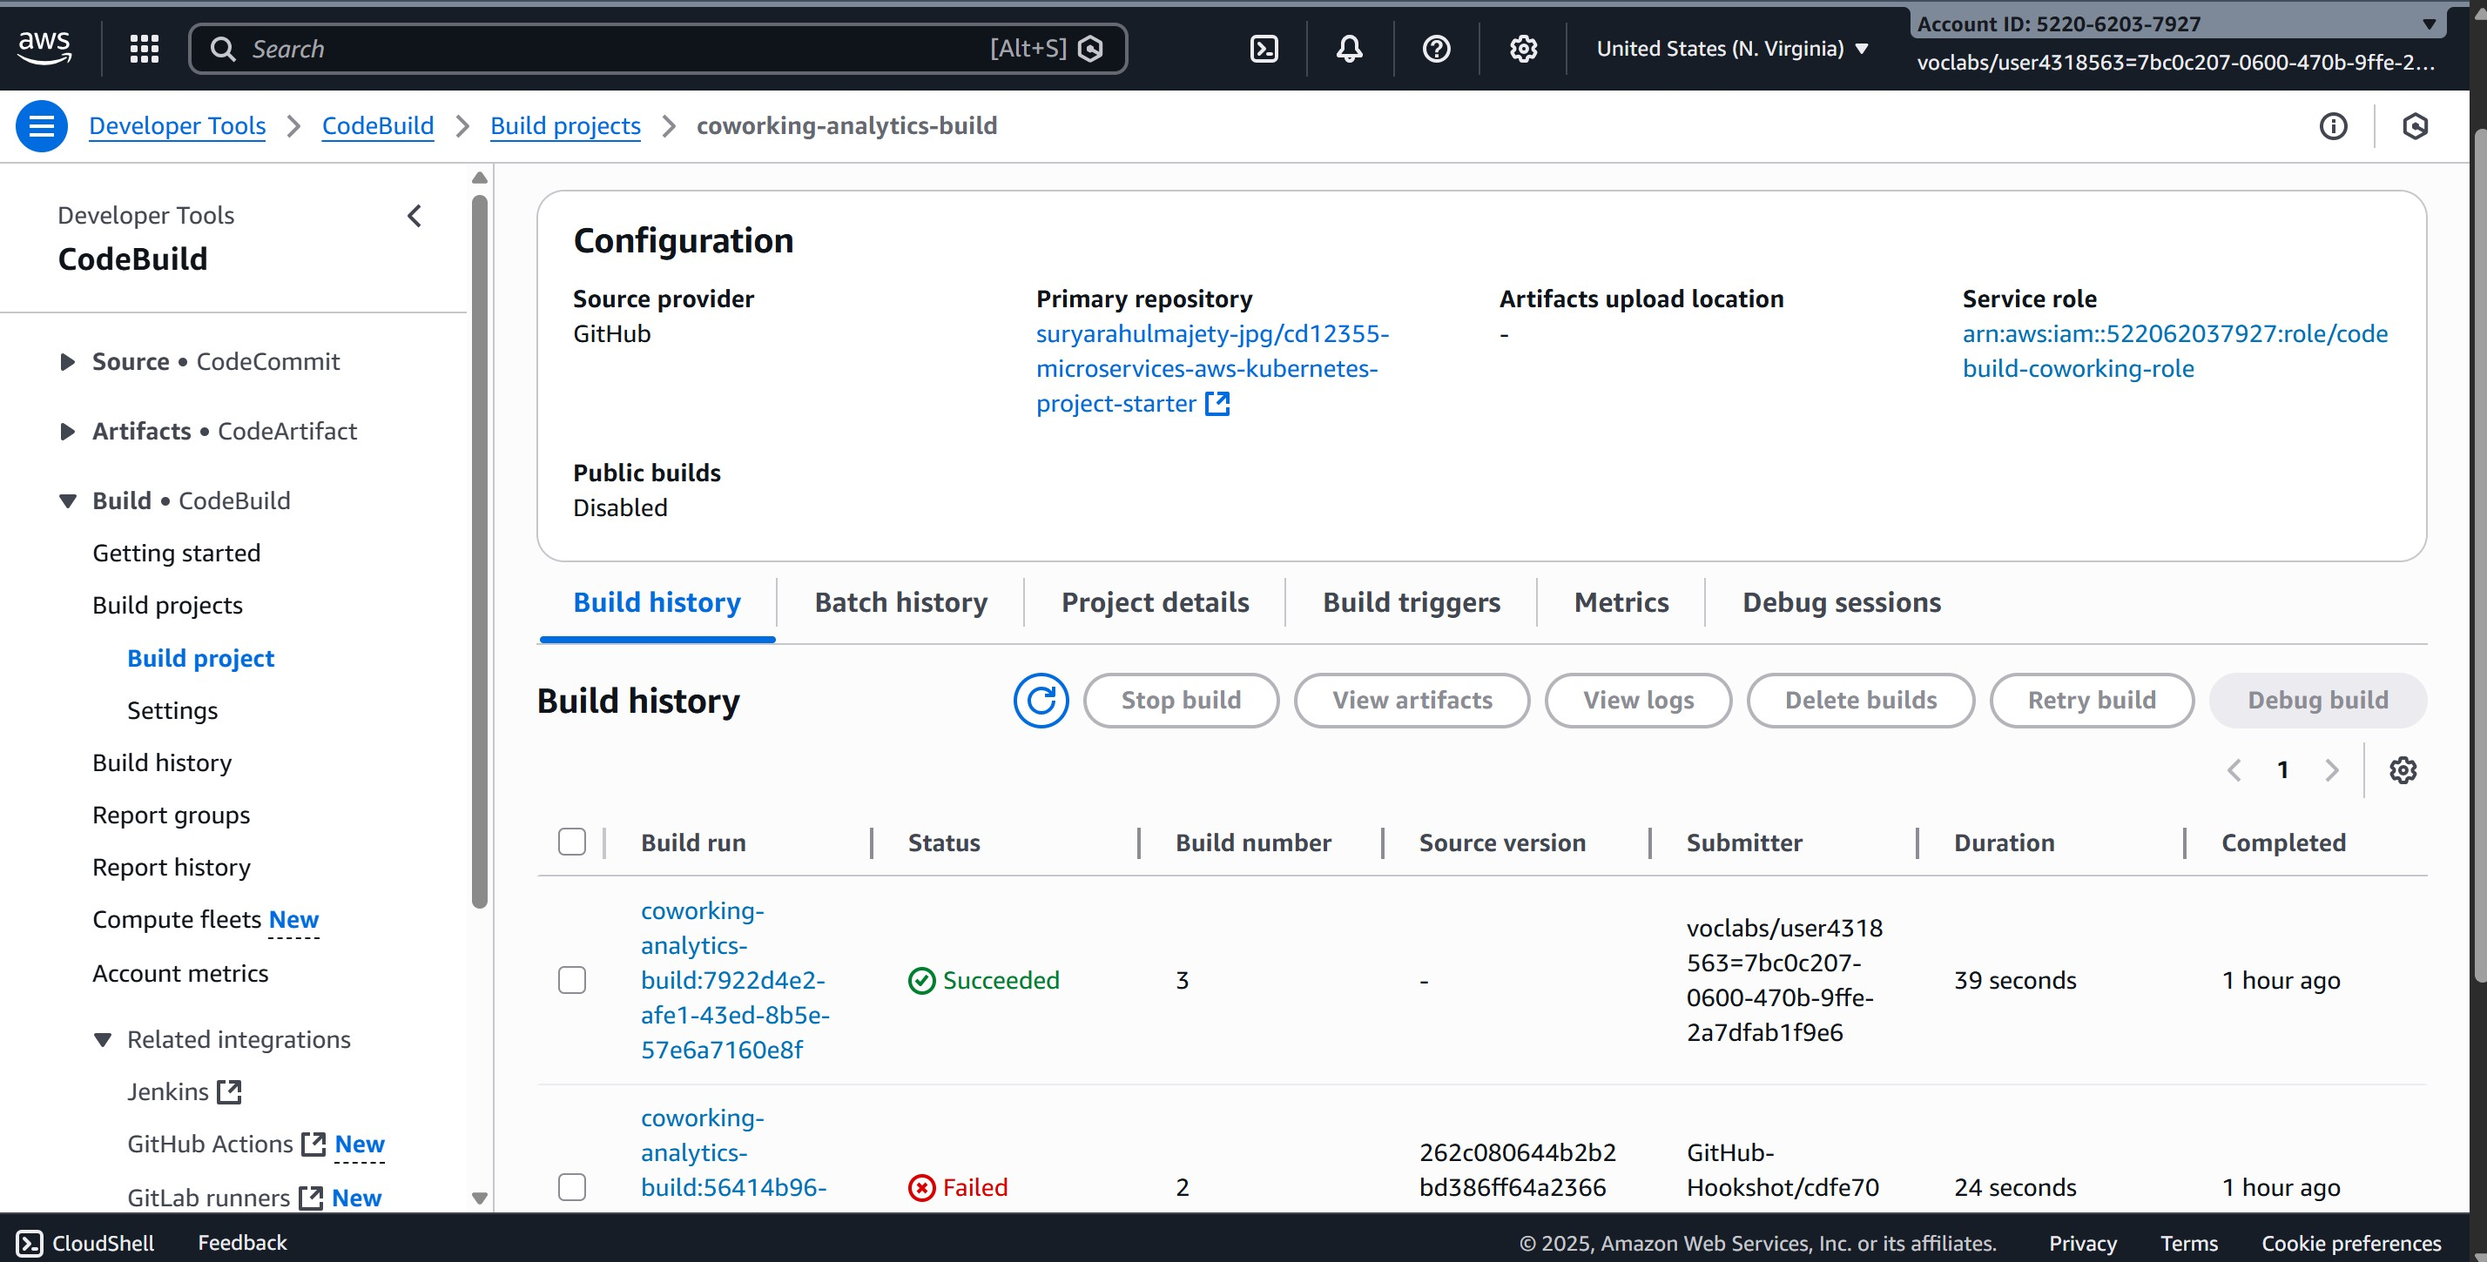
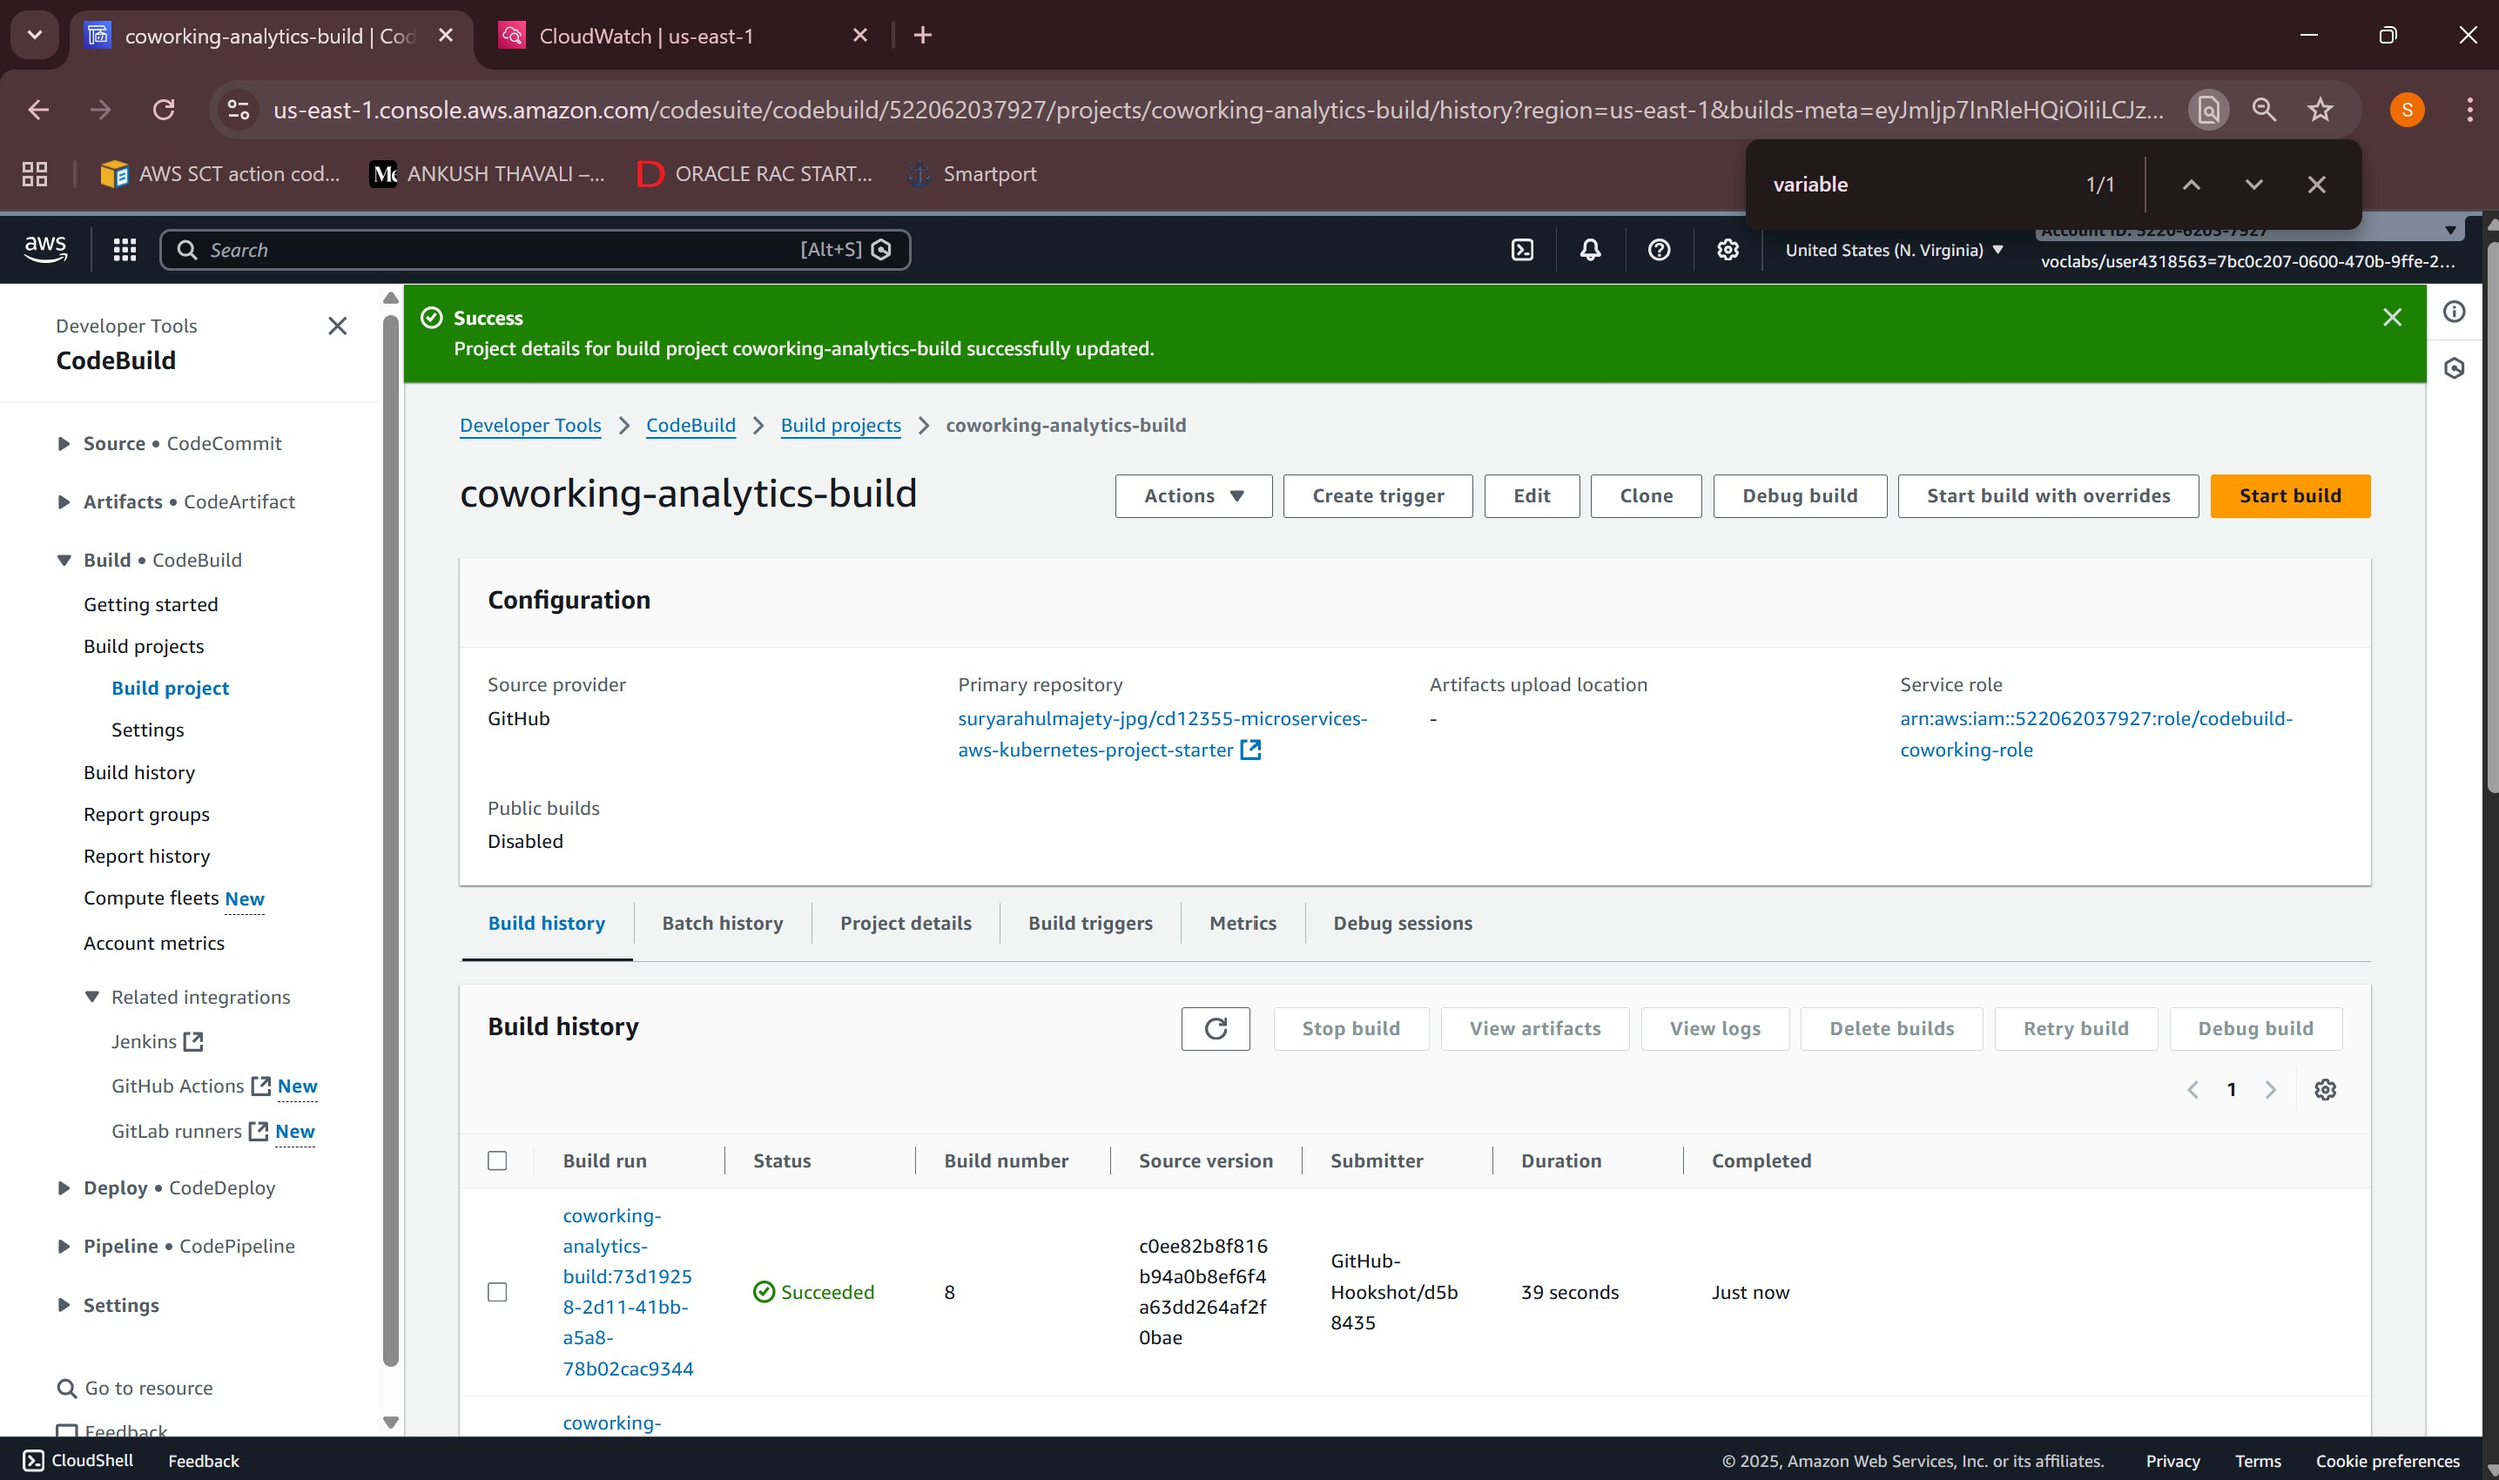
Fix CodeBuild trigger, update README, add screenshots and logs for resubmission

diff --git a/README.md b/README.md
@@ -1,124 +1,94 @@
-Coworking Space Analytics App 
+# Coworking Space Service – Analytics Extension (EKS)
 
-Hi! This repo contains my submission for the *Udacity Cloud Developer Nanodegree — Microservices on AWS with Kubernetes* final project.  
-This app exposes analytics APIs (daily usage + user visits) and runs fully on **Amazon EKS**, using:
+## Overview
 
-- ECR (Docker image registry)
-- EKS (Kubernetes cluster)
-- Helm (for PostgreSQL)
-- CodeBuild (CI build + Docker push)
-- LoadBalancer service (public access)
+The Coworking Space Service is a microservice-based application that allows users to request one-time access tokens and enables administrators to authorize access to a coworking space.  
+This repository focuses on the **Analytics Service**, which exposes APIs used by business analysts to retrieve usage metrics such as daily visits and user-based activity.
 
- 1. Project Overview
-
-This project is a simple analytics microservice written in Python (Flask).  
-It connects to **PostgreSQL**, fetches seeded data, and exposes two API endpoints:
-
-- `/api/reports/daily_usage`  
-- `/api/reports/user_visits`
-
-The backend runs inside a Docker container deployed on AWS EKS
-
-Docker Build & Push Steps
-
-```sh
-docker build -t coworking-app:1.0.0 -f analytics/Dockerfile .
-```
-
-Tag it for ECR
-
-```sh
-docker tag coworking-app:1.0.0 \
-522062037927.dkr.ecr.us-east-1.amazonaws.com/coworking-space:1.0.0
-```
-
-Login to ECR
-
-```sh
-aws ecr get-login-password --region us-east-1 \
-| docker login --username AWS \
-  --password-stdin 522062037927.dkr.ecr.us-east-1.amazonaws.com
-```
-
-Push image
-
-```sh
-docker push 522062037927.dkr.ecr.us-east-1.amazonaws.com/coworking-space:1.0.0
-```
+In this project, I worked as a **DevOps engineer**, responsible for containerizing the analytics application, building a CI/CD pipeline, and deploying the service into a **Kubernetes environment on AWS EKS**.
 
 ---
 
-PostgreSQL Setup on Kubernetes
+## System Architecture
 
-Deployed Postgres in EKS using the Bitnami Helm chart
+The system follows a cloud-native, microservice-oriented design:
 
-```sh
-helm install coworking-db bitnami/postgresql \
-  --set auth.username=rahul \
-  --set auth.password=Welcome_123 \
-  --set auth.database=coworking \
-  --set persistence.enabled=false \
-  --set primary.persistence.enabled=false \
-  --set readReplicas.persistence.enabled=false
-```
+- **Analytics API**
+  - Python (Flask) application
+  - Containerized using Docker
+  - Deployed as a Kubernetes Deployment
+- **Database**
+  - PostgreSQL deployed using a Bitnami Helm chart
+  - Runs inside the same Kubernetes cluster
+- **Container Registry**
+  - Amazon ECR stores versioned Docker images
+- **CI/CD Pipeline**
+  - GitHub triggers AWS CodeBuild via webhook
+  - CodeBuild builds and pushes Docker images to ECR
+- **Orchestration & Runtime**
+  - Amazon EKS manages application and database workloads
+- **Observability**
+  - Application logs available via Kubernetes
+  - Infrastructure and build logs available in CloudWatch
 
-Verify the DB pod is running
-
-```sh
-kubectl get pods -l app.kubernetes.io/name=postgresql
-```
-
-Port-forward to access PostgreSQL locally
-
-```sh
-kubectl port-forward svc/coworking-db-postgresql 5432:5432
-```
-
-Connect using psql 
-
-```sh
-psql -h 127.0.0.1 -U rahul -d coworking
-```
+An architecture diagram is included in the submission to illustrate component interactions.
 
 ---
 
-Database Seeding
+## Technology Stack
 
-The `db/seed.sql` file contains test analytics + visit data.
+- Python (Flask)
+- Docker
+- Kubernetes
+- Helm
+- Amazon EKS
+- Amazon ECR
+- AWS CodeBuild
+- AWS CloudWatch
+- GitHub Webhooks
 
-To seed the DB:
+---
 
-```sh
-kubectl run pg-client --rm -it --image=postgres:14 -- bash
-```
+## CI/CD Workflow
 
-Inside the pod:
+The deployment pipeline is fully automated and GitHub-driven:
 
-```sh
-psql -h coworking-db-postgresql -U rahul -d coworking -f /seed/seed.sql
-```
- Kubernetes Deployment Manifests
+1. A code change is pushed to the GitHub repository.
+2. A GitHub webhook triggers an AWS CodeBuild project.
+3. CodeBuild:
+   - Builds the Docker image using `buildspec.yml`
+   - Tags the image with a build-based version
+   - Pushes the image to Amazon ECR
+4. The Kubernetes deployment references the updated image from ECR.
+5. Pods are recreated automatically by Kubernetes using a rolling update strategy.
 
-The Kubernetes YAMLs used in this project are stored under:
+This workflow ensures consistent, repeatable, and auditable deployments.
 
-```
-deployments/configmap.yaml
-deployments/secret.yaml
-deployments/deployment.yaml
-```
+---
 
-Apply them:
+## Kubernetes Deployment Strategy
 
-```sh
-kubectl apply -f deployments/configmap.yaml
-kubectl apply -f deployments/secret.yaml
-kubectl apply -f deployments/deployment.yaml
-``'
-```
+All Kubernetes manifests used for deployment are stored in the `deployments/` directory:
 
-The app exposes a **LoadBalancer** service that looks like:
+- `deployment.yaml` – Analytics application deployment
+- `configmap.yaml` – Runtime configuration
+- `secret.yaml` – Database credentials
+- PostgreSQL deployed via Helm
 
-```
-a88b75e05bb1d40d58f9904edb74c893-xxxxxxxx.elb.amazonaws.com
-```
+The application uses:
+- Liveness and readiness probes for health checks
+- ConfigMaps and Secrets for environment configuration
+- ClusterIP services for internal communication
 
+---
+
+## Application Logging & Observability
+
+The analytics service continuously queries the database and logs runtime information, including query execution and health checks.
+
+### Log Collection Approach
+
+Application logs are retrieved using:
+
+```bash
+kubectl logs -l app=coworking
